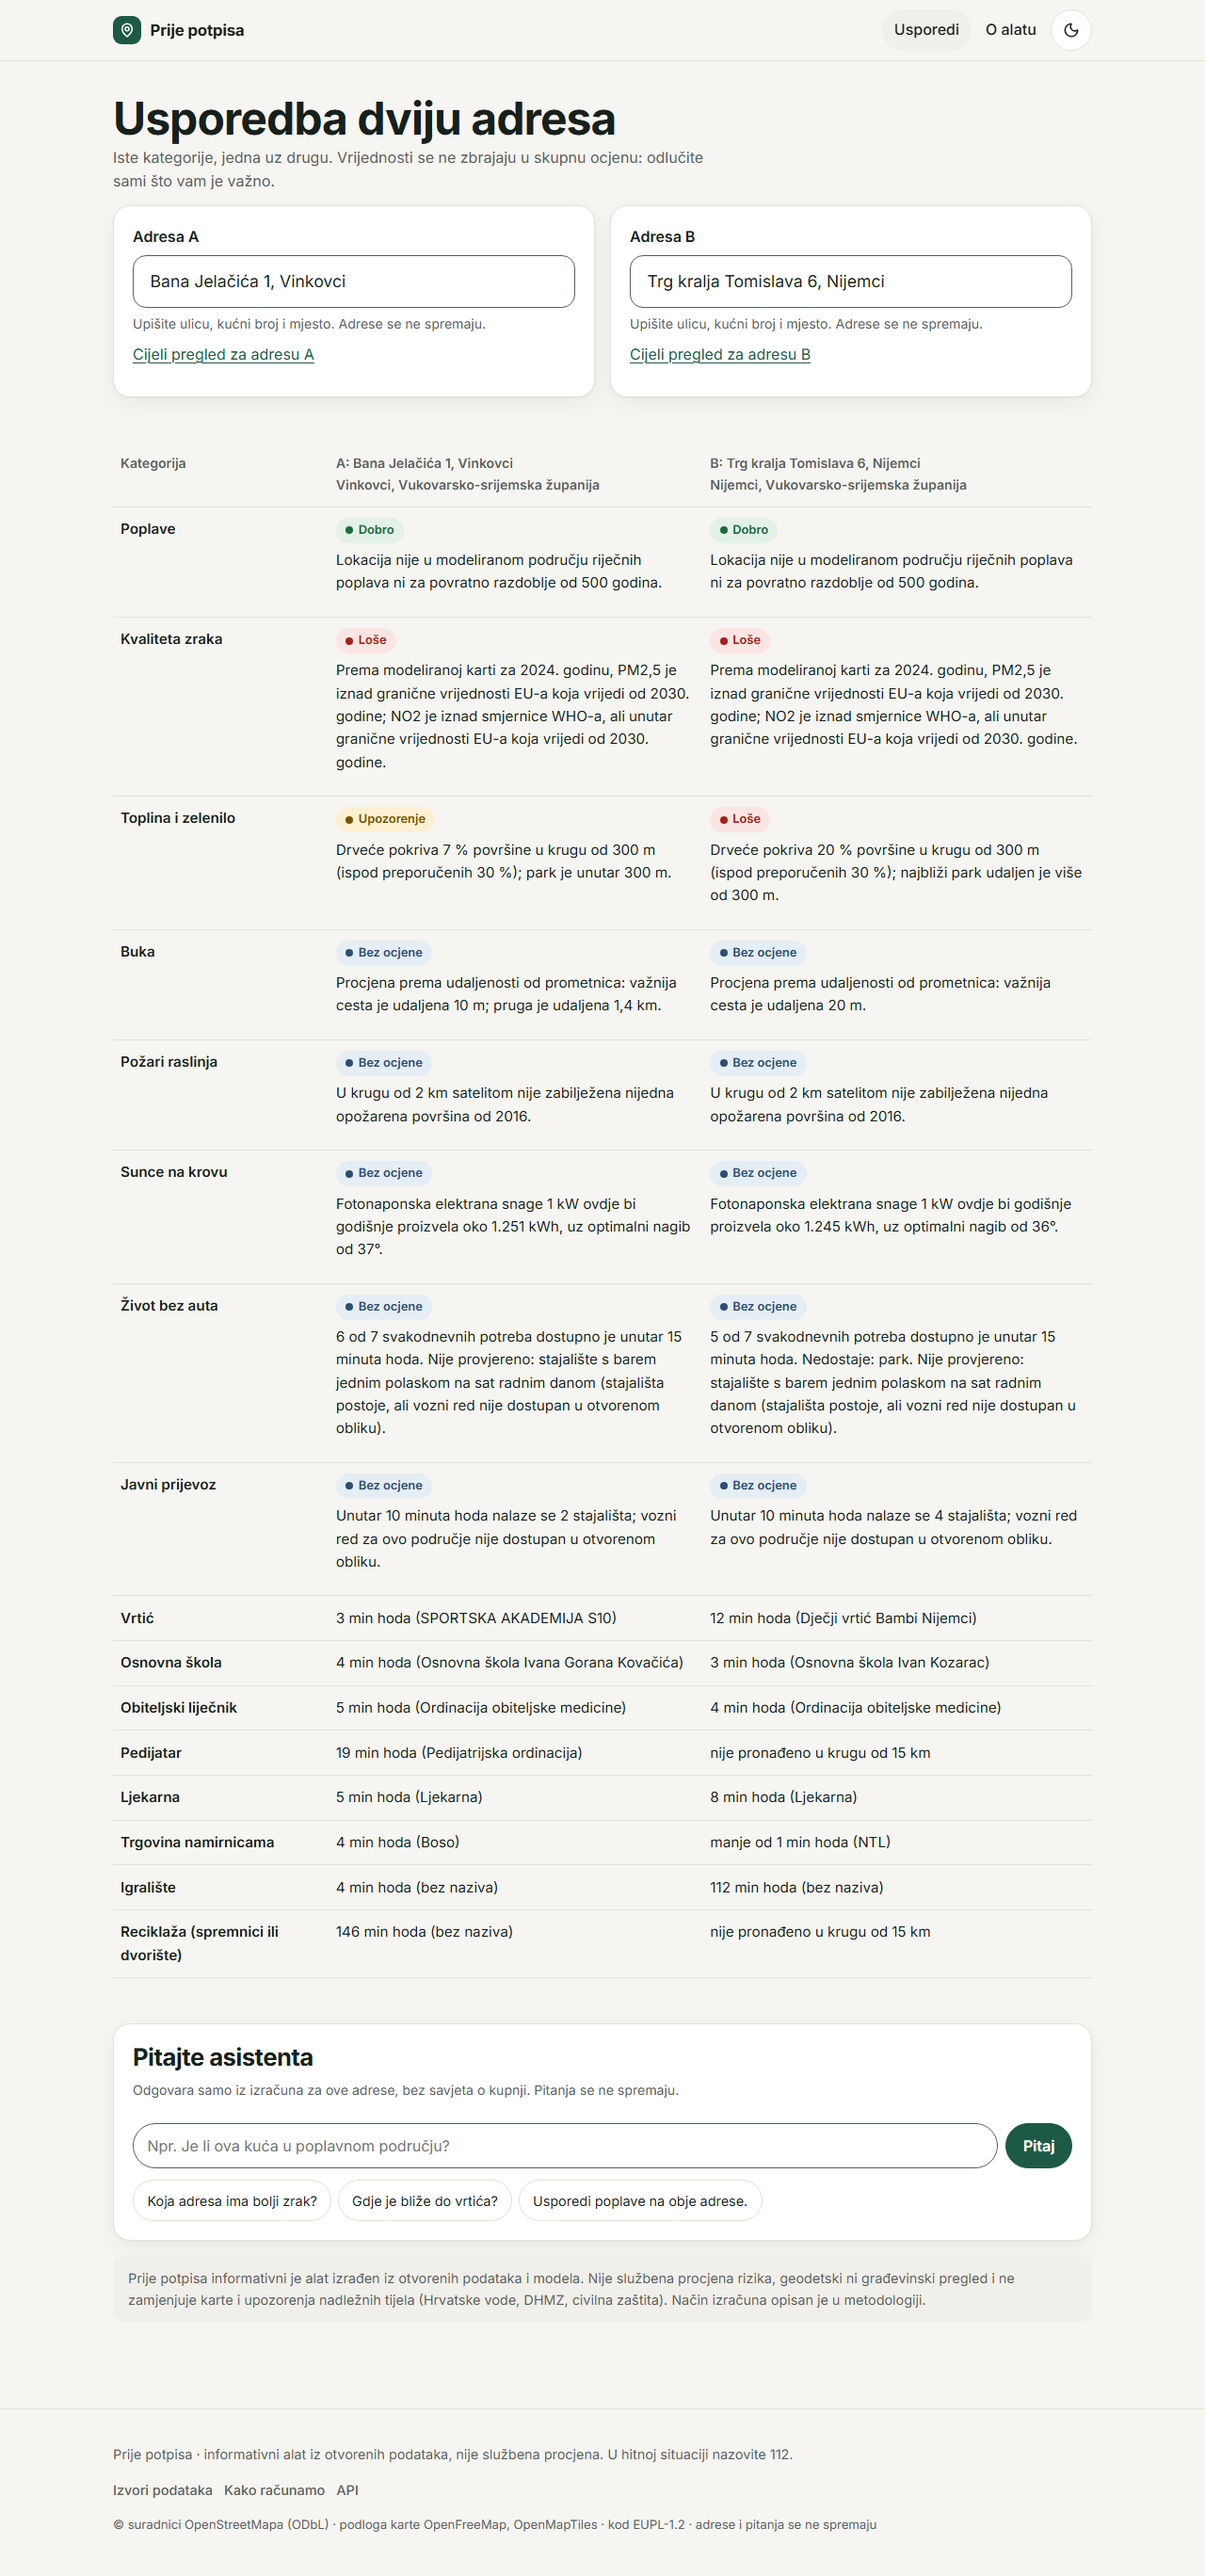
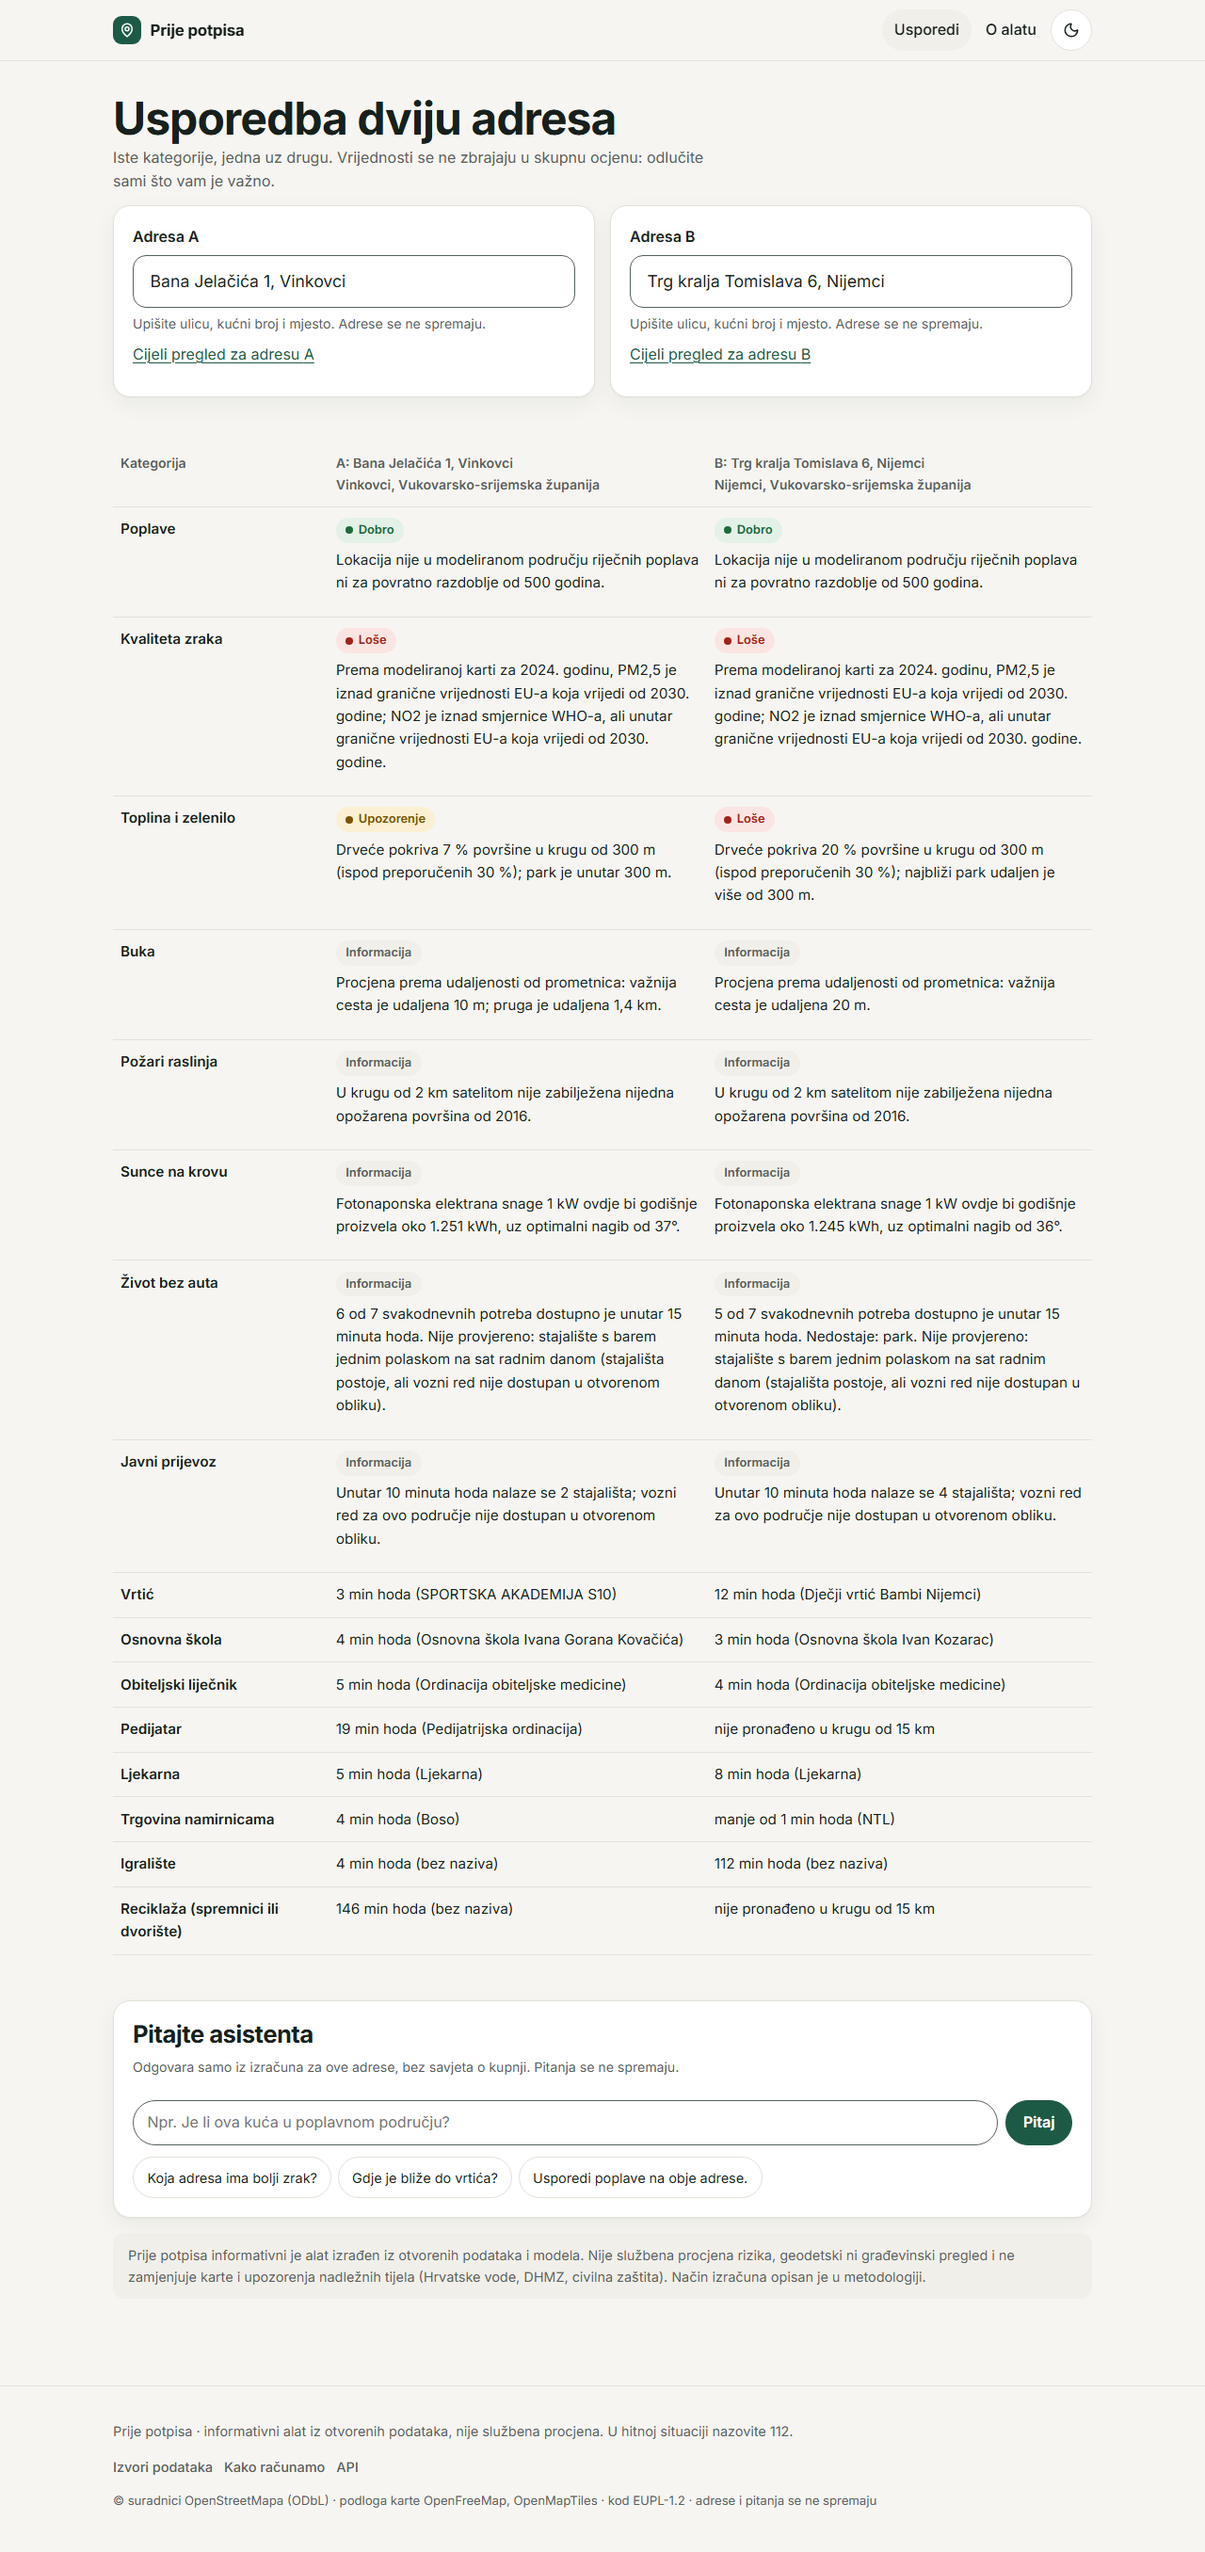
feat: neutral 'Informacija' status instead of 'Bez ocjene'

diff --git a/frontend/src/pages/AboutPage.tsx b/frontend/src/pages/AboutPage.tsx
@@ -90,7 +90,7 @@ export function AboutPage() {
                   (OpenStreetMap).
                 </td>
                 <td>
-                  Bez ocjene. Strateške karte buke EEA-e nisu otvorene licence pa se samo
+                  Informacija (nema službenog praga). Strateške karte buke EEA-e nisu otvorene licence pa se samo
                   povezuju. Smjernica WHO-a (2018.): cestovni promet ispod 53 dB Lden.
                 </td>
               </tr>
@@ -100,12 +100,12 @@ export function AboutPage() {
                   Opožarene površine u krugu od 2 km od 2016. iz europskog sustava EFFIS
                   (satelitsko kartiranje).
                 </td>
-                <td>Bez ocjene. Prošli požari pokazuju izloženost, a ne predviđaju buduće.</td>
+                <td>Informacija (nema službenog praga). Prošli požari pokazuju izloženost, a ne predviđaju buduće.</td>
               </tr>
               <tr>
                 <th scope="row">Sunce na krovu</th>
                 <td>JRC PVGIS 5.3: godišnja proizvodnja za 1 kW snage uz optimalni nagib i 14 % gubitaka.</td>
-                <td>Bez ocjene.</td>
+                <td>Informacija (nema službenog praga).</td>
               </tr>
               <tr>
                 <th scope="row">Život bez auta</th>
@@ -113,7 +113,7 @@ export function AboutPage() {
                   Koliko od sedam svakodnevnih potreba je unutar 15 minuta hoda po mreži ulica
                   (Valhalla nad OpenStreetMapom, 4,5 km/h).
                 </td>
-                <td>Bez ocjene; prikazuje se „X od 7” i što nedostaje.</td>
+                <td>Informacija; prikazuje se „X od 7” i što nedostaje.</td>
               </tr>
               <tr>
                 <th scope="row">Javni prijevoz</th>
@@ -121,7 +121,7 @@ export function AboutPage() {
                   Stajališta unutar 10 minuta hoda; prosječan broj polazaka na sat od 6 do 20 sati
                   radnim danom iz voznih redova ZET-a, HŽPP-a i Autotroleja.
                 </td>
-                <td>Bez ocjene. Drugdje stajališta iz OpenStreetMapa „bez voznog reda”.</td>
+                <td>Informacija. Drugdje stajališta iz OpenStreetMapa „bez voznog reda”.</td>
               </tr>
             </tbody>
           </table>

diff --git a/frontend/src/index.css b/frontend/src/index.css
@@ -674,9 +674,14 @@ select {
   background: var(--bad-bg);
 }
 
+/* "Informacija": a fact without a sourced threshold, deliberately neutral. */
 .status-info {
-  color: var(--info);
-  background: var(--info-bg);
+  color: var(--muted);
+  background: var(--surface-2);
+}
+
+.status-info::before {
+  display: none;
 }
 
 .status-no_data {

diff --git a/backend/analysis/status.py b/backend/analysis/status.py
@@ -9,7 +9,7 @@ STATUS_LABELS: dict[Status, str] = {
     "warning": "Upozorenje",
     "bad": "Loše",
     "no_data": "Nema podataka",
-    "info": "Bez ocjene",
+    "info": "Informacija",
 }
 
 

diff --git a/docs/METODOLOGIJA.md b/docs/METODOLOGIJA.md
@@ -5,7 +5,7 @@ Ovaj dokument opisuje kako se računa svaka kategorija pregleda, koji se pragovi
 ## Načela
 
 1. **Apsolutno značenje ispred relativnog ranga.** Pregled kaže, na primjer, „lokacija je u modeliranom poplavnom području za povratno razdoblje od 100 godina”, a ne „rizik iznad prosjeka”.
-2. **Svaka kategorija ima status** prema pragu s izvorom: dobro, upozorenje, loše ili nema podataka. Kategorije za koje ne postoji općeprihvaćen prag (sunce, buka kao procjena, život bez auta, javni prijevoz, svakodnevni život) imaju status „Bez ocjene” i prikazuju samo podatak. „Nema podataka” se uvijek prikazuje; kategorija se nikad tiho ne izostavlja.
+2. **Svaka kategorija ima status** prema pragu s izvorom: dobro, upozorenje, loše ili nema podataka. Kategorije za koje ne postoji općeprihvaćen prag (sunce, buka kao procjena, život bez auta, javni prijevoz, svakodnevni život) imaju status „Informacija” i prikazuju samo podatak, bez ocjene. „Nema podataka” se uvijek prikazuje; kategorija se nikad tiho ne izostavlja.
 3. **Nema skupne ocjene.** Kategorije se ne zbrajaju ni ne ponderiraju. Profil korisnika (obitelj s djecom, umirovljenik, student, rad od kuće, vlastiti) mijenja samo redoslijed i naglasak kartica, nikad vrijednosti ni statuse.
 4. **Svaka vrijednost ima izvor, datum preuzimanja i vrstu.** Vrste su:
    - `measured` (izmjereno): vrijednost iz mjerenja, voznog reda ili službenog registra;
@@ -69,7 +69,7 @@ Ovaj dokument opisuje kako se računa svaka kategorija pregleda, koji se pragovi
 
 - **Podaci:** autoceste, brze, glavne i važnije ceste (`highway=motorway|trunk|primary|secondary`) i pruge (`railway=rail`, bez sporednih kolosijeka) iz OpenStreetMapa.
 - **Izračun:** zračna udaljenost do najbliže ceste i najbliže pruge, do 2 km.
-- **Status:** „Bez ocjene”, vrsta „procjena”. Za udaljenost od prometnice ne postoji prag s izvorom koji bi je pretvorio u razinu buke.
+- **Status:** „Informacija”, vrsta „procjena”. Za udaljenost od prometnice ne postoji prag s izvorom koji bi je pretvorio u razinu buke.
 - **Kontekst:** smjernice WHO-a za buku okoliša u europskoj regiji (2018.) preporučuju cestovni promet ispod 53 dB Lden i 45 dB Lnight (https://iris.who.int/handle/10665/279952). Strateške karte buke EEA-e nemaju otvorenu licencu, pa ih samo povezujemo.
 - Zašto i `secondary`: vidi [ODLUKE.md](ODLUKE.md).
 
@@ -77,14 +77,14 @@ Ovaj dokument opisuje kako se računa svaka kategorija pregleda, koji se pragovi
 
 - **Podaci:** EFFIS (Copernicus European Forest Fire Information System), opožarene površine kartirane iz satelitskih snimaka MODIS, sloj `ms:modis.ba.poly` preuzet preko javnog WFS-a za Hrvatsku (1.030 površina od 2016.). Skupno preuzimanje traži račun, a WFS ne.
 - **Izračun:** opožarene površine čiji poligon dodiruje krug od 2 km oko točke: broj, godine, najbliža (udaljenost do ruba) i najveća (ha).
-- **Status:** „Bez ocjene”, jer za broj prošlih požara ne postoji prag s izvorom. Prošli požari pokazuju izloženost, a ne predviđaju buduće.
+- **Status:** „Informacija”, jer za broj prošlih požara ne postoji prag s izvorom. Prošli požari pokazuju izloženost, a ne predviđaju buduće.
 - **Ograničenja:** satelitsko kartiranje ne bilježi sve manje požare; podaci počinju 2016.
 
 ## Sunce na krovu
 
 - **Podaci:** JRC PVGIS 5.3, `PVcalc`, snaga 1 kWp, gubici sustava 14 % (zadana vrijednost PVGIS-a), optimalni nagib i azimut, baza zračenja PVGIS-SARAH3 (2005.–2023.).
 - **Vrijednost:** `E_y`, prosječna godišnja proizvodnja u kWh za 1 kWp.
-- **Status:** „Bez ocjene”.
+- **Status:** „Informacija”.
 - **Ograničenja:** ne uzima u obzir sjenu susjednih zgrada i drveća ni stvarni nagib i orijentaciju krova. Rezultat se predmemorira po koordinatama zaokruženima na 0,01°.
 
 ## Mreža hoda

diff --git a/docs/PRISTUPACNOST.md b/docs/PRISTUPACNOST.md
@@ -28,7 +28,7 @@ Iz axe provjere izuzet je samo `canvas` karte (MapLibre), jer je karta slika bez
 | Pretraga adrese | kombinirani okvir prema uzorku WAI-ARIA 1.2 (`role="combobox"`, `aria-expanded`, `aria-activedescendant`, `listbox`/`option`); broj prijedloga najavljuje se u području `aria-live` |
 | Ciljevi dodira | najmanje 44 × 44 px (gumbi, poveznice u izborniku, odabir profila, prijedlozi) |
 | Kontrast | boje teksta i statusa provjerene axe-om u obje teme (≥ 4,5:1) |
-| Status nikad samo bojom | svaka oznaka statusa ima riječ („Dobro”, „Upozorenje”, „Loše”, „Nema podataka”, „Bez ocjene”) i točku u boji |
+| Status nikad samo bojom | svaka oznaka statusa ima riječ („Dobro”, „Upozorenje”, „Loše”, „Nema podataka”, „Informacija”); ocjene imaju i točku u boji |
 | Karta | nije jedini nositelj informacije: uz kartu je tekstualni popis onoga što je na 5, 10 i 15 minuta hoda i legenda, a ispod tablica najbližih ustanova; `<figure>` s opisom za čitače zaslona |
 | Tablice | `<caption>`, zaglavlja s `scope` |
 | Tamna tema | gumb „Tamna tema” (`aria-pressed`); početno prema postavci sustava (`prefers-color-scheme`); izbor se pamti u pregledniku |

diff --git a/docs/ODLUKE.md b/docs/ODLUKE.md
@@ -23,3 +23,4 @@ Jedna odluka po retku: datum, odluka, razlog.
 - 2026-11-03: Pristupni zapisi su isključeni (uvicorn `--no-access-log`, Caddy `output discard`). Razlog: koordinate u upitu otkrivaju adresu, a CLAUDE.md zabranjuje spremanje adresa.
 - 2026-11-03: Požari (P2) iz EFFIS-ova javnog WFS-a umjesto skupnog preuzimanja. Razlog: skupno preuzimanje traži račun (HTTP 403), a CLAUDE.md dopušta požare samo bez računa.
 - 2026-11-03: Redizajn sučelja: izvor, datum i vrsta svake vrijednosti prikazuju se na klik („Detalji i izvor”) umjesto stalno, a popis izvora izvještaja je sklopljen na dnu. Ikone iz `lucide-react` (ISC). Razlog: čitljivost za običnog korisnika; provenijencija ostaje dostupna uz svaku vrijednost (pravilo 2).
+- 2026-11-03: Status bez praga s izvorom preimenovan iz „Bez ocjene” u „Informacija” i prikazan neutralno (sivo, bez točke u boji). Razlog: „Bez ocjene” je djelovalo kao da nešto nedostaje; značenje i pravila 4 i 12 ostaju ista.

diff --git a/PROGRESS.md b/PROGRESS.md
@@ -33,7 +33,7 @@ Zadnje ažurirano: 2026-11-03 10:30
 - [x] **Revizija README-a:** tvrdnje usklađene s kodom i podacima; primjer sa stvarnim izračunom (Vinkovci i Nijemci); stvarni nalazi o kvaliteti i ograničenja; `scripts/check_readme.py` prolazi.
 
 ## P2
-- [x] **Požari:** EFFIS opožarene površine preko javnog WFS-a bez računa (1.030 površina od 2016.), kategorija „Požari raslinja” (krug od 2 km, bez ocjene).
+- [x] **Požari:** EFFIS opožarene površine preko javnog WFS-a bez računa (1.030 površina od 2016.), kategorija „Požari raslinja” (krug od 2 km, status „Informacija”).
 - [ ] **Procjena auto-kilometara i CO2:** samo s citiranim faktorima emisije i jasno opisanim pretpostavkama.
 - [ ] **Izvoz PDF-a** izvještaja.
 
